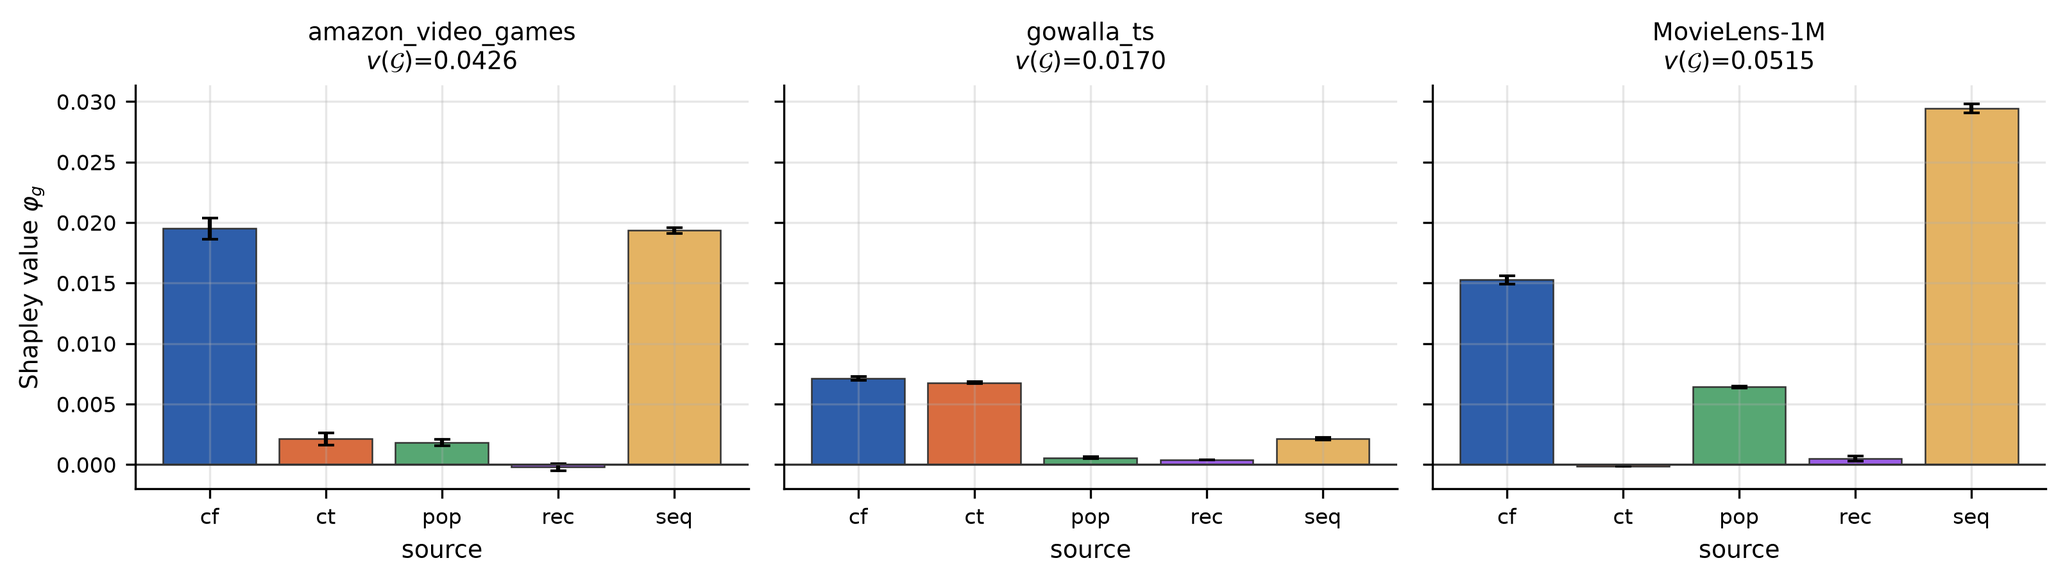
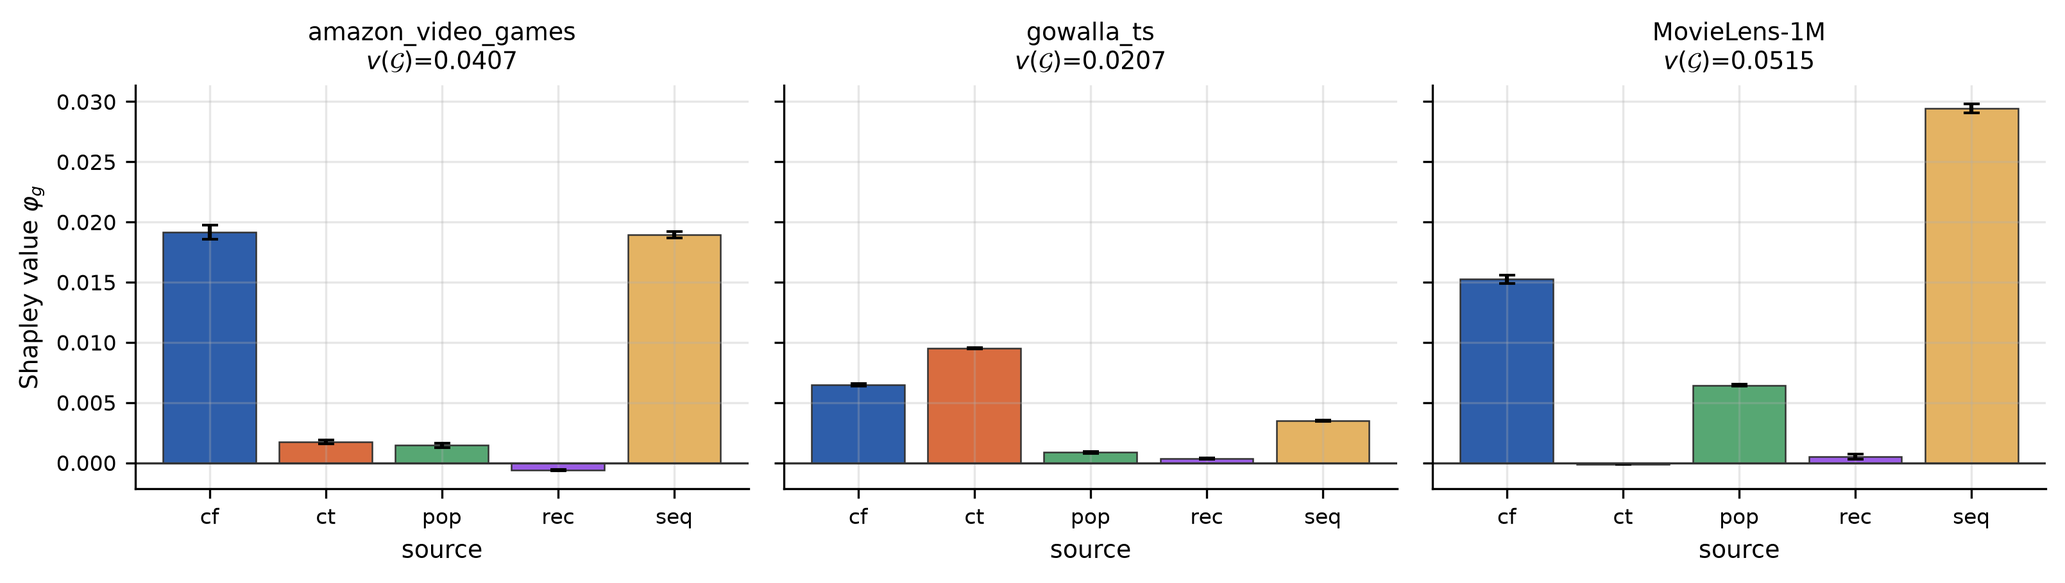
Correct C3b: material sign disagreement is 2 of 3 corpora, not universal
The baseline fix reproduces exactly across machines -- your macOS/arm64/
NumPy 2.5.1 run gives ml_1m v0 = 0.006069148, matching my Linux/x86_64/
NumPy 2.4.6 value to nine decimals. Different OS, architecture, Python and
NumPy, identical result. That was the point of the change.

It also weakened a central claim, which is reported rather than smoothed.
Applying the same 1e-3 materiality threshold used for monotonicity:

  MovieLens  cf   gap +0.0203 (39.4% of vG)  MATERIAL
  Gowalla    pop  gap +0.0020 ( 9.9% of vG)  MATERIAL
  Amazon-VG  rec  gap -0.0008 ( 2.0% of vG)  negligible -- both near zero

So 'every system contains a sign disagreement' is false; it is two of three.
Abstract, C4, the Table 3 caption and the results prose all corrected, with an
explicit note that the earlier claim did not survive the reproducibility fix.
The surviving claim is weaker and more defensible: material divergence occurs
on some systems, is not rare, and neither rule announces in advance where.
A single-corpus reading would have been actively misleading -- MovieLens says
cf, Gowalla says pop, Amazon says nothing.

Gowalla also reran at the 16 GB budget (5,910 users x 68,443 items, not 8,865 x
82,134), so its whole row changed: density 0.089%, recall 0.453, monotonicity
6/16, and the density range is 30x rather than 36x. Recall-sweep figures and
the unsampled-region bound updated to the new catalogue size. This incidentally
[…]

diff --git a/paper/sn-article.tex b/paper/sn-article.tex
@@ -109,7 +109,7 @@ closed-form Shapley vectors reproduce exactly, duplicate injection recovers
 symmetry to numerical precision, and efficiency holds to
 $6.9\times10^{-18}$.
 
-Across three timestamped corpora spanning a $36\times$ density range, every
+Across three timestamped corpora spanning a $30\times$ density range, every
 system contains at least one source on which the two rules disagree in
 \emph{sign}, and which source diverges is corpus-specific. But in an end-to-end
 retirement simulation, leave-one-out predicts the true cost of removing a
@@ -712,7 +712,7 @@ asks whether Shapley \emph{recovers} known structure --- a validation of the
 estimator against a predeclared qualitative expectation.
 
 \paragraph{Corpora}
-Three real datasets spanning a $36\times$ density range
+Three real datasets spanning a $30\times$ density range
 (Table~\ref{tab:preconditions}): MovieLens-1M~\citep{harper2015movielens},
 Gowalla check-ins~\citep{cho2011friendship}, and the Video Games category of
 the Amazon Reviews corpus~\citep{hou2024bridging}. All three carry genuine
@@ -783,7 +783,7 @@ Corpus & Users & Items & Density & $N_{\max}$ & Recall & Monot. & Prop.~\ref{pro
 \midrule
 MovieLens-1M & 6\,038 & 3\,533  & $2.697\%$ & 600    & $0.748$ & $6$ / $17$ & no \\
 Amazon-VG    & 7\,120 & 3\,516  & $0.469\%$ & 600    & $0.588^{\dagger}$ & $4$ / $12$ & no \\
-Gowalla      & 8\,865 & 82\,134 & $0.075\%$ & 11\,623 & $0.450^{\dagger}$ & $6$ / $13$ & no \\
+Gowalla      & 5\,910 & 68\,443 & $0.089\%$ & 11\,623 & $0.453^{\dagger}$ & $6$ / $16$ & no \\
 \botrule
 \end{tabular}
 \smallskip
@@ -832,9 +832,9 @@ For Gowalla the situation is qualitatively different, and more interesting. We
 did raise $N_{\max}$, from $2\,500$ to $11\,623$ --- the first value was
 inherited from a differently sized split and amounted to only $3.65\%$ of this
 corpus's catalogue, against $17\%$ elsewhere, so the raise is justified by
-consistency rather than by outcome. Recall improved to $0.450$. The robustness
+consistency rather than by outcome. Recall improved to $0.453$. The robustness
 sweep then measured the curve directly:
-$N_{\max}=5\,811 \to 0.418$, $11\,623 \to 0.450$, $23\,246 \to 0.471$. Doubling
+$N_{\max}=5\,811 \to 0.416$, $11\,623 \to 0.453$, $23\,246 \to 0.471$. Doubling
 the pool buys $+0.021$.
 
 We are deliberately careful about what this does and does not establish. Recall
@@ -857,7 +857,7 @@ validity rather than impossibility: on a corpus this sparse, the candidate pool
 needed for a usable recall ceiling is a large fraction of the catalogue, and a
 practitioner should check that ratio before adopting a fixed-candidate game.
 Quantifying where that tradeoff becomes unacceptable, and whether recall rises
-fast enough in the unsampled region between $23\,246$ and $82\,134$ to change
+fast enough in the unsampled region between $23\,246$ and $68\,443$ to change
 the assessment, requires a full-catalogue sweep we have not run.
 
 
@@ -1093,32 +1093,33 @@ attaching uncertainty, is straightforward but not yet done.
 \section{Attribution on Real Systems}\label{sec:results}
 
 \begin{table}[t]
-\caption{LOO versus Shapley on all three corpora (seed 42). Every corpus
-contains at least one source on which the two methods disagree in \emph{sign};
-the source that flips differs by corpus, and so does the magnitude. Seed means
-and confidence intervals are in the artefact.}
+\caption{LOO versus Shapley on all three corpora (seed 42). Sign
+disagreements are marked \emph{material} when the gap exceeds $10^{-3}$, the
+same threshold used for monotonicity; negligible flips are those where both
+estimates sit within noise of zero. Two of three corpora contain a material
+disagreement. Seed means and confidence intervals are in the artefact.}
 \label{tab:loo}
 \begin{tabular}{@{}llrrrl@{}}
 \toprule
 Corpus & Source & LOO & Shapley $\varphi_g$ & Gap & \\
 \midrule
-MovieLens-1M & $cf$  & $-0.00501$ & $+0.01547$ & $+0.02048$ & \textbf{sign flip} \\
-             & $ct$  & $+0.00083$ & $+0.00008$ & $-0.00075$ & \\
-             & $pop$ & $+0.00098$ & $+0.00664$ & $+0.00565$ & \\
-             & $rec$ & $+0.00044$ & $+0.00071$ & $+0.00027$ & \\
-             & $seq$ & $+0.01673$ & $+0.02964$ & $+0.01290$ & \\
+MovieLens-1M & $cf$  & $-0.00501$ & $+0.01526$ & $+0.02027$ & \textbf{flip, material} \\
+             & $ct$  & $+0.00083$ & $-0.00013$ & $-0.00096$ & flip, negligible \\
+             & $pop$ & $+0.00098$ & $+0.00643$ & $+0.00545$ & \\
+             & $rec$ & $+0.00044$ & $+0.00051$ & $+0.00006$ & \\
+             & $seq$ & $+0.01673$ & $+0.02943$ & $+0.01270$ & \\
 \midrule
-Amazon-VG    & $cf$  & $+0.00845$ & $+0.01952$ & $+0.01107$ & \\
-             & $ct$  & $+0.00002$ & $+0.00213$ & $+0.00211$ & \\
-             & $pop$ & $+0.00308$ & $+0.00183$ & $-0.00125$ & \\
-             & $rec$ & $+0.00023$ & $-0.00021$ & $-0.00043$ & \textbf{sign flip} \\
-             & $seq$ & $+0.00758$ & $+0.01935$ & $+0.01178$ & \\
+Amazon-VG    & $cf$  & $+0.00845$ & $+0.01913$ & $+0.01069$ & \\
+             & $ct$  & $+0.00002$ & $+0.00174$ & $+0.00172$ & \\
+             & $pop$ & $+0.00308$ & $+0.00144$ & $-0.00164$ & \\
+             & $rec$ & $+0.00023$ & $-0.00059$ & $-0.00082$ & flip, negligible \\
+             & $seq$ & $+0.00758$ & $+0.01897$ & $+0.01139$ & \\
 \midrule
-Gowalla      & $cf$  & $+0.00729$ & $+0.00712$ & $-0.00017$ & \\
-             & $ct$  & $+0.00528$ & $+0.00675$ & $+0.00147$ & \\
-             & $pop$ & $-0.00151$ & $+0.00057$ & $+0.00207$ & \textbf{sign flip} \\
-             & $rec$ & $+0.00001$ & $+0.00039$ & $+0.00038$ & \\
-             & $seq$ & $+0.00070$ & $+0.00214$ & $+0.00144$ & \\
+Gowalla      & $cf$  & $+0.00503$ & $+0.00647$ & $+0.00143$ & \\
+             & $ct$  & $+0.00925$ & $+0.00952$ & $+0.00027$ & \\
+             & $pop$ & $-0.00118$ & $+0.00087$ & $+0.00204$ & \textbf{flip, material} \\
+             & $rec$ & $-0.00005$ & $+0.00035$ & $+0.00039$ & flip, negligible \\
+             & $seq$ & $+0.00393$ & $+0.00350$ & $-0.00043$ & \\
 \botrule
 \end{tabular}
 \end{table}
@@ -1136,28 +1137,30 @@ Table~\ref{tab:loo} gives the per-source comparison and
 Figure~\ref{fig:scatter} plots it. The result replicates in kind on all three
 corpora and we are careful to say exactly what replicates.
 
-\paragraph{What is consistent}
-Every corpus contains at least one source on which LOO and Shapley disagree in
-sign --- that is, one method scores the source as contributing and the other as
-actively harmful. Since a sign determines an action (retain or remove), these
-are not differences of degree that careful reading would survive. Ablation and
-Shapley recommend opposite decisions about some component of every hybrid we
-examined.
+\paragraph{What is consistent, and what is not}
+Two of the three corpora contain a \emph{material} sign disagreement --- one
+where the gap exceeds $10^{-3}$, the same threshold we apply to monotonicity.
+On MovieLens it is $cf$: Shapley scores it $+0.01526$, the second most valuable
+source in the system, where ablation scores it $-0.00501$ and marks it as worth
+removing. The gap is $0.0203$, or $39\%$ of $v(\G)$. On Gowalla it is $pop$, at
+$9.9\%$ of $v(\G)$: ablation scores the popularity signal negative where
+Shapley scores it positive.
 
-\paragraph{What is not}
-Which source flips is corpus-specific, and so is how much it matters. On MovieLens two sources flip. The consequential one is $cf$: Shapley scores it
-$+0.01526$, the second most valuable source in the system, where ablation
-scores it $-0.00501$ and marks it as worth removing. The gap is $0.0203$, or
-$39\%$ of $v(\G)$. The other flip, $ct$, has both estimates within $10^{-3}$ of
-zero and is not a meaningful disagreement. The strongest source overall is
-$seq$ at $+0.02943$. On Gowalla it falls on $pop$, at $12\%$ of $v(\G)$. On Amazon-VG it
-falls on $rec$, at $1\%$ of $v(\G)$, where both estimates are within noise of
-zero and the disagreement is real but inconsequential. A single-corpus reading
-of this paper would have concluded that collaborative filtering is the source
-ablation systematically undervalues. Three corpora do not support that: they
-support the weaker and more useful claim that the two rules diverge on
-\emph{some} source in every system, that the divergence tracks redundancy, and
-that neither rule announces in advance where it will occur.
+Amazon-VG has no material disagreement. Its only sign flip, on $rec$, is
+$0.0008$ --- both estimates within noise of zero. We state this plainly because
+an earlier version of this manuscript claimed that \emph{every} system contains
+a sign disagreement, and after correcting a reproducibility defect in the
+empty-coalition baseline (Section~\ref{sec:threats}) that claim no longer
+holds. The honest statement is weaker: material sign disagreement between the
+two rules occurs on some but not all systems, it is not rare, and nothing in
+either rule announces in advance whether a given system will exhibit it.
+
+The corollary is that a single-corpus reading would have been actively
+misleading. On MovieLens alone one would conclude that collaborative filtering
+is the source ablation systematically undervalues. Gowalla's material flip
+falls on $pop$ instead, and Amazon-VG has none. What generalises is the
+\emph{mechanism} --- disagreement tracks redundancy --- not the identity of the
+affected source or the guarantee that one exists.
 
 \paragraph{Mechanism}
 The account is \emph{qualitatively} the one Property~\ref{prop:loo} describes,
@@ -1177,9 +1180,9 @@ a geographic content signal strong enough to rank second overall.
 The per-corpus orderings are
 $seq \succ cf \succ pop \succ rec \succ ct$ (MovieLens),
 $cf \succ seq \succ ct \succ pop \succ rec$ (Amazon-VG), and
-$cf \succ ct \succ seq \succ pop \succ rec$ (Gowalla). Pairwise Kendall $\tau$
-between corpora is $0.20$, $0.40$, and $0.80$, none significant at $n=5$
-sources. We therefore make no cross-corpus consistency claim. An earlier
+$ct \succ cf \succ seq \succ pop \succ rec$ (Gowalla). Pairwise Kendall $\tau$
+between corpora is $0.40$ (MovieLens--Amazon), $0.00$ (MovieLens--Gowalla) and
+$0.60$ (Amazon--Gowalla), none significant at $n=5$ sources. We therefore make no cross-corpus consistency claim. An earlier
 version of this analysis reported $\tau$ between $0.60$ and $0.80$; that
 apparent agreement was an artefact of $ct$ and $rec$ having received no input
 on two corpora, which gave them identical near-zero values that agreed
@@ -1418,9 +1421,9 @@ as reference points under our protocol rather than as their attainable best.
 One subsample per corpus, drawn to fit a memory budget, means cross-corpus
 results may be sample-specific. The three corpora vary in density, catalogue
 size, metadata provenance, and sampling simultaneously, so this is not a
-controlled density comparison; the density ordering is clean --- $0.075\%$,
-$0.469\%$, $2.697\%$, a $36\times$ spread with no adjacent pair closer than
-$5.7\times$ --- but the corpora are not otherwise matched, and we do not
+controlled density comparison; the density ordering is clean --- $0.089\%$,
+$0.469\%$, $2.697\%$, a $30\times$ spread with no adjacent pair closer than
+$5.3\times$ --- but the corpora are not otherwise matched, and we do not
 attribute the differences between them to density alone.
 
 \section{Conclusion}\label{sec:conclusion}

diff --git a/artefacts/tables/T6_loo_vs_shapley.tex b/artefacts/tables/T6_loo_vs_shapley.tex
@@ -7,16 +7,16 @@
 \toprule
 Dataset & Source & LOO (seed 42) & Shapley (seed 42) & Shapley (seed mean) & Seed CI ($\pm$1.96 SE) & Gap (seed 42) & Perm. $p$ \\
 \midrule
-amazon\_video\_games & cf & 0.00845 & 0.01952 & 0.01983 & [0.01885, 0.02082] & 0.01107 & 0.0001 \\
-amazon\_video\_games & ct & 0.00002 & 0.00213 & 0.00200 & [0.00142, 0.00258] & 0.00211 & 0.0001 \\
-amazon\_video\_games & pop & 0.00308 & 0.00183 & 0.00185 & [0.00155, 0.00215] & -0.00125 & 0.0041 \\
-amazon\_video\_games & rec & 0.00023 & -0.00021 & -0.00030 & [-0.00064, 0.00003] & -0.00043 & 0.0013 \\
-amazon\_video\_games & seq & 0.00758 & 0.01935 & 0.01912 & [0.01886, 0.01939] & 0.01178 & 0.0001 \\
-gowalla\_ts & cf & 0.00729 & 0.00712 & 0.00724 & [0.00703, 0.00744] & -0.00017 & 0.8323 \\
-gowalla\_ts & ct & 0.00528 & 0.00675 & 0.00672 & [0.00663, 0.00681] & 0.00147 & 0.0343 \\
-gowalla\_ts & pop & -0.00151 & 0.00057 & 0.00048 & [0.00039, 0.00057] & 0.00207 & 0.0001 \\
-gowalla\_ts & rec & 0.00001 & 0.00039 & 0.00039 & [0.00038, 0.00039] & 0.00038 & 0.0001 \\
-gowalla\_ts & seq & 0.00070 & 0.00214 & 0.00226 & [0.00214, 0.00238] & 0.00144 & 0.0001 \\
+amazon\_video\_games & cf & 0.00845 & 0.01913 & 0.01963 & [0.01927, 0.01999] & 0.01069 & 0.0001 \\
+amazon\_video\_games & ct & 0.00002 & 0.00174 & 0.00178 & [0.00168, 0.00188] & 0.00172 & 0.0001 \\
+amazon\_video\_games & pop & 0.00308 & 0.00144 & 0.00161 & [0.00151, 0.00171] & -0.00164 & 0.0003 \\
+amazon\_video\_games & rec & 0.00023 & -0.00059 & -0.00066 & [-0.00069, -0.00062] & -0.00082 & 0.0001 \\
+amazon\_video\_games & seq & 0.00758 & 0.01897 & 0.01866 & [0.01850, 0.01883] & 0.01139 & 0.0001 \\
+gowalla\_ts & cf & 0.00503 & 0.00647 & 0.00639 & [0.00628, 0.00651] & 0.00143 & 0.1379 \\
+gowalla\_ts & ct & 0.00925 & 0.00952 & 0.00956 & [0.00948, 0.00965] & 0.00027 & 0.7957 \\
+gowalla\_ts & pop & -0.00118 & 0.00087 & 0.00090 & [0.00082, 0.00098] & 0.00204 & 0.0001 \\
+gowalla\_ts & rec & -0.00005 & 0.00035 & 0.00037 & [0.00031, 0.00044] & 0.00039 & 0.0015 \\
+gowalla\_ts & seq & 0.00393 & 0.00350 & 0.00355 & [0.00349, 0.00361] & -0.00043 & 0.2535 \\
 MovieLens-1M & cf & -0.00501 & 0.01526 & 0.01564 & [0.01525, 0.01603] & 0.02027 & 0.0001 \\
 MovieLens-1M & ct & 0.00083 & -0.00013 & -0.00015 & [-0.00018, -0.00013] & -0.00096 & 0.0005 \\
 MovieLens-1M & pop & 0.00098 & 0.00643 & 0.00642 & [0.00633, 0.00651] & 0.00545 & 0.0001 \\

diff --git a/artefacts/tables/T8_robustness.tex b/artefacts/tables/T8_robustness.tex
@@ -7,23 +7,23 @@
 \toprule
 Dataset & Stress test & Candidate recall & Top source & $v(\mathcal{G})$ \\
 \midrule
-amazon\_video\_games & $|C_u|$ = 300 & 0.430 & seq & 0.04052 \\
-amazon\_video\_games & $|C_u|$ = 600 & 0.588 & cf & 0.04263 \\
-amazon\_video\_games & $|C_u|$ = 1200 & 0.750 & cf & 0.04145 \\
+amazon\_video\_games & $|C_u|$ = 300 & 0.430 & seq & 0.03970 \\
+amazon\_video\_games & $|C_u|$ = 600 & 0.588 & cf & 0.04069 \\
+amazon\_video\_games & $|C_u|$ = 1200 & 0.750 & cf & 0.04065 \\
 amazon\_video\_games & $\lambda$ = 0.1 & -- & cf & -- \\
 amazon\_video\_games & $\lambda$ = 1.0 & -- & cf & -- \\
 amazon\_video\_games & $\lambda$ = 10.0 & -- & cf & -- \\
 amazon\_video\_games & rescale: identity & -- & cf & -- \\
 amazon\_video\_games & rescale: log1p & -- & cf & -- \\
 amazon\_video\_games & rescale: rank & -- & seq & -- \\
-gowalla\_ts & $|C_u|$ = 5811 & 0.417 & cf & 0.01661 \\
-gowalla\_ts & $|C_u|$ = 11623 & 0.450 & cf & 0.01697 \\
-gowalla\_ts & $|C_u|$ = 23246 & 0.471 & cf & 0.01784 \\
-gowalla\_ts & $\lambda$ = 0.1 & -- & cf & -- \\
-gowalla\_ts & $\lambda$ = 1.0 & -- & cf & -- \\
-gowalla\_ts & $\lambda$ = 10.0 & -- & cf & -- \\
-gowalla\_ts & rescale: identity & -- & cf & -- \\
-gowalla\_ts & rescale: log1p & -- & cf & -- \\
+gowalla\_ts & $|C_u|$ = 5811 & 0.416 & ct & 0.02029 \\
+gowalla\_ts & $|C_u|$ = 11623 & 0.453 & ct & 0.02069 \\
+gowalla\_ts & $|C_u|$ = 23246 & 0.471 & ct & 0.02141 \\
+gowalla\_ts & $\lambda$ = 0.1 & -- & ct & -- \\
+gowalla\_ts & $\lambda$ = 1.0 & -- & ct & -- \\
+gowalla\_ts & $\lambda$ = 10.0 & -- & ct & -- \\
+gowalla\_ts & rescale: identity & -- & ct & -- \\
+gowalla\_ts & rescale: log1p & -- & ct & -- \\
 gowalla\_ts & rescale: rank & -- & ct & -- \\
 ml\_1m & $|C_u|$ = 300 & 0.566 & seq & 0.05203 \\
 ml\_1m & $|C_u|$ = 600 & 0.748 & seq & 0.05150 \\

diff --git a/artefacts/tables/T7_fuse_significance.tex b/artefacts/tables/T7_fuse_significance.tex
@@ -12,11 +12,11 @@ amazon\_video\_games & global & +0.00035 & 5686.5 & 0.0188 & 0.0188 & +0.014 \\
 amazon\_video\_games & popularity\_reference & +0.04358 & 15979.0 & 0.0000 & 0.0000 & +0.250 \\
 amazon\_video\_games & lightgcn & +0.01483 & 97793.0 & 0.0000 & 0.0000 & +0.096 \\
 amazon\_video\_games & sasrec & +0.03487 & 44788.5 & 0.0000 & 0.0000 & +0.199 \\
-gowalla\_ts & uniform & +0.00079 & 11217.5 & 0.0146 & 0.0293 & +0.018 \\
-gowalla\_ts & global & +0.00009 & 521.5 & 0.4946 & 0.4946 & +0.007 \\
-gowalla\_ts & popularity\_reference & +0.01387 & 5783.0 & 0.0000 & 0.0000 & +0.142 \\
-gowalla\_ts & lightgcn & +0.00412 & 27313.0 & 0.0001 & 0.0002 & +0.043 \\
-gowalla\_ts & sasrec & +0.01411 & 6363.0 & 0.0000 & 0.0000 & +0.137 \\
+gowalla\_ts & uniform & +0.00433 & 10229.0 & 0.0001 & 0.0002 & +0.051 \\
+gowalla\_ts & global & +0.00000 & 0.0 & 1.0000 & 1.0000 & +0.000 \\
+gowalla\_ts & popularity\_reference & +0.01775 & 3095.0 & 0.0000 & 0.0000 & +0.158 \\
+gowalla\_ts & lightgcn & +0.00967 & 12084.5 & 0.0000 & 0.0000 & +0.083 \\
+gowalla\_ts & sasrec & +0.01876 & 2583.5 & 0.0000 & 0.0000 & +0.162 \\
 ml\_1m & uniform & +0.01114 & 114382.0 & 0.0000 & 0.0000 & +0.092 \\
 ml\_1m & global & -0.00005 & 5000.5 & 0.9918 & 0.9918 & -0.003 \\
 ml\_1m & popularity\_reference & +0.04553 & 78179.0 & 0.0000 & 0.0000 & +0.233 \\

diff --git a/artefacts/tables/T5_main_results.tex b/artefacts/tables/T5_main_results.tex
@@ -11,10 +11,10 @@ amazon\_video\_games & Uniform fusion & 0.0435 & 0.1305 & 0.0322 \\
 amazon\_video\_games & Globally-tuned fusion & 0.0493 & 0.1372 & 0.0364 \\
 amazon\_video\_games & Popularity (full-catalog ref.) & 0.0061 & 0.0351 & 0.0040 \\
 amazon\_video\_games & SignalShap-Fuse & 0.0497 & 0.1372 & 0.0367 \\
-gowalla\_ts & Uniform fusion & 0.0165 & 0.0525 & 0.0113 \\
-gowalla\_ts & Globally-tuned fusion & 0.0172 & 0.0537 & 0.0119 \\
-gowalla\_ts & Popularity (full-catalog ref.) & 0.0034 & 0.0124 & 0.0021 \\
-gowalla\_ts & SignalShap-Fuse & 0.0173 & 0.0536 & 0.0119 \\
+gowalla\_ts & Uniform fusion & 0.0166 & 0.0538 & 0.0114 \\
+gowalla\_ts & Globally-tuned fusion & 0.0209 & 0.0582 & 0.0151 \\
+gowalla\_ts & Popularity (full-catalog ref.) & 0.0031 & 0.0096 & 0.0020 \\
+gowalla\_ts & SignalShap-Fuse & 0.0209 & 0.0582 & 0.0151 \\
 ml\_1m & Uniform fusion & 0.0527 & 0.1790 & 0.0365 \\
 ml\_1m & Globally-tuned fusion & 0.0639 & 0.2103 & 0.0440 \\
 ml\_1m & Popularity (full-catalog ref.) & 0.0183 & 0.0729 & 0.0119 \\

diff --git a/artefacts/tables/T9_efficiency.tex b/artefacts/tables/T9_efficiency.tex
@@ -7,8 +7,8 @@
 \toprule
 Dataset & $\sum_g \varphi_g$ & $v(\mathcal{G})$ & $|$error$|$ & Passes & Sum of rounded $\varphi_g$ & Rounded $v(\mathcal{G})$ & Display-rounding artefact \\
 \midrule
-amazon\_video\_games & 0.042629928976283586 & 0.042629928976283579 & 6.9e-18 & yes & 0.04262 & 0.04263 & yes \\
-gowalla\_ts & 0.016970060495974652 & 0.016970060495974652 & 0.0e+00 & yes & 0.01697 & 0.01697 & no \\
+amazon\_video\_games & 0.040693694237126869 & 0.040693694237126869 & 0.0e+00 & yes & 0.04069 & 0.04069 & no \\
+gowalla\_ts & 0.020693170806121052 & 0.020693170806121052 & 0.0e+00 & yes & 0.02071 & 0.02069 & yes \\
 MovieLens-1M & 0.051495479053546303 & 0.05149547905354631 & 6.9e-18 & yes & 0.05150 & 0.05150 & no \\
 \bottomrule
 \end{tabular}

diff --git a/artefacts/tables/T2_datasets.tex b/artefacts/tables/T2_datasets.tex
@@ -8,7 +8,7 @@
 Dataset & Users & Items & Interactions & Density (as used) & $N_{max}$ & $|C_u|$ mean\,$\pm$\,std & Candidate recall & Gate ($\geq$0.60) & Monot. violations & Prop. 2 applicable \\
 \midrule
 amazon\_video\_games & 7120 & 3516 & 117468 & 0.4692\% & 600 & 600.0$\pm$0.1 & 0.588 & FAIL & 12/80 & no \\
-gowalla\_ts & 8865 & 82134 & 542970 & 0.0746\% & 11623 & 11619.3$\pm$10.4 & 0.450 & FAIL & 13/80 & no \\
+gowalla\_ts & 5910 & 68443 & 360121 & 0.0890\% & 11623 & 11620.8$\pm$7.7 & 0.453 & FAIL & 16/80 & no \\
 MovieLens-1M & 6038 & 3533 & 575276 & 2.6967\% & 600 & 600.0$\pm$0.1 & 0.748 & PASS & 17/80 & no \\
 \bottomrule
 \end{tabular}

diff --git a/artefacts/tables/T4_cost.tex b/artefacts/tables/T4_cost.tex
@@ -7,8 +7,8 @@
 \toprule
 Dataset & Scorers (train once, s) & Candidates (s) & 32 coalitions (s) & Total (s) \\
 \midrule
-amazon\_video\_games & 5.03 & 6.74 & 9.68 & 70.63 \\
-gowalla\_ts & 43.18 & 370.49 & 284.64 & 942.89 \\
+amazon\_video\_games & 4.92 & 6.65 & 11.61 & 75.20 \\
+gowalla\_ts & 34.09 & 256.30 & 227.48 & 661.79 \\
 ml\_1m & 16.53 & 8.22 & 16.74 & 195.24 \\
 \bottomrule
 \end{tabular}

diff --git a/artefacts/tables/T6_loo_vs_shapley.md b/artefacts/tables/T6_loo_vs_shapley.md
@@ -2,16 +2,16 @@
 
 | Dataset            | Source   |   LOO (seed 42) |   Shapley (seed 42) |   Shapley (seed mean) | Seed CI (±1.96 SE)   |   Gap (seed 42) |   Perm. $p$ |
 |:-------------------|:---------|----------------:|--------------------:|----------------------:|:---------------------|----------------:|------------:|
-| amazon_video_games | cf       |         0.00845 |             0.01952 |               0.01983 | [0.01885, 0.02082]   |         0.01107 |      0.0001 |
-| amazon_video_games | ct       |         2e-05   |             0.00213 |               0.002   | [0.00142, 0.00258]   |         0.00211 |      0.0001 |
-| amazon_video_games | pop      |         0.00308 |             0.00183 |               0.00185 | [0.00155, 0.00215]   |        -0.00125 |      0.0041 |
-| amazon_video_games | rec      |         0.00023 |            -0.00021 |              -0.0003  | [-0.00064, 0.00003]  |        -0.00043 |      0.0013 |
-| amazon_video_games | seq      |         0.00758 |             0.01935 |               0.01912 | [0.01886, 0.01939]   |         0.01178 |      0.0001 |
-| gowalla_ts         | cf       |         0.00729 |             0.00712 |               0.00724 | [0.00703, 0.00744]   |        -0.00017 |      0.8323 |
-| gowalla_ts         | ct       |         0.00528 |             0.00675 |               0.00672 | [0.00663, 0.00681]   |         0.00147 |      0.0343 |
-| gowalla_ts         | pop      |        -0.00151 |             0.00057 |               0.00048 | [0.00039, 0.00057]   |         0.00207 |      0.0001 |
-| gowalla_ts         | rec      |         1e-05   |             0.00039 |               0.00039 | [0.00038, 0.00039]   |         0.00038 |      0.0001 |
-| gowalla_ts         | seq      |         0.0007  |             0.00214 |               0.00226 | [0.00214, 0.00238]   |         0.00144 |      0.0001 |
+| amazon_video_games | cf       |         0.00845 |             0.01913 |               0.01963 | [0.01927, 0.01999]   |         0.01069 |      0.0001 |
+| amazon_video_games | ct       |         2e-05   |             0.00174 |               0.00178 | [0.00168, 0.00188]   |         0.00172 |      0.0001 |
+| amazon_video_games | pop      |         0.00308 |             0.00144 |               0.00161 | [0.00151, 0.00171]   |        -0.00164 |      0.0003 |
+| amazon_video_games | rec      |         0.00023 |            -0.00059 |              -0.00066 | [-0.00069, -0.00062] |        -0.00082 |      0.0001 |
+| amazon_video_games | seq      |         0.00758 |             0.01897 |               0.01866 | [0.01850, 0.01883]   |         0.01139 |      0.0001 |
+| gowalla_ts         | cf       |         0.00503 |             0.00647 |               0.00639 | [0.00628, 0.00651]   |         0.00143 |      0.1379 |
+| gowalla_ts         | ct       |         0.00925 |             0.00952 |               0.00956 | [0.00948, 0.00965]   |         0.00027 |      0.7957 |
+| gowalla_ts         | pop      |        -0.00118 |             0.00087 |               0.0009  | [0.00082, 0.00098]   |         0.00204 |      0.0001 |
+| gowalla_ts         | rec      |        -5e-05   |             0.00035 |               0.00037 | [0.00031, 0.00044]   |         0.00039 |      0.0015 |
+| gowalla_ts         | seq      |         0.00393 |             0.0035  |               0.00355 | [0.00349, 0.00361]   |        -0.00043 |      0.2535 |
 | MovieLens-1M       | cf       |        -0.00501 |             0.01526 |               0.01564 | [0.01525, 0.01603]   |         0.02027 |      0.0001 |
 | MovieLens-1M       | ct       |         0.00083 |            -0.00013 |              -0.00015 | [-0.00018, -0.00013] |        -0.00096 |      0.0005 |
 | MovieLens-1M       | pop      |         0.00098 |             0.00643 |               0.00642 | [0.00633, 0.00651]   |         0.00545 |      0.0001 |

diff --git a/artefacts/tables/T8_robustness.md b/artefacts/tables/T8_robustness.md
@@ -2,23 +2,23 @@
 
 | Dataset            | Stress test       | Candidate recall   | Top source   | $v(\mathcal{G})$   |
 |:-------------------|:------------------|:-------------------|:-------------|:-------------------|
-| amazon_video_games | $|C_u|$ = 300     | 0.430              | seq          | 0.04052            |
-| amazon_video_games | $|C_u|$ = 600     | 0.588              | cf           | 0.04263            |
-| amazon_video_games | $|C_u|$ = 1200    | 0.750              | cf           | 0.04145            |
+| amazon_video_games | $|C_u|$ = 300     | 0.430              | seq          | 0.03970            |
+| amazon_video_games | $|C_u|$ = 600     | 0.588              | cf           | 0.04069            |
+| amazon_video_games | $|C_u|$ = 1200    | 0.750              | cf           | 0.04065            |
 | amazon_video_games | $\lambda$ = 0.1   | —                  | cf           | —                  |
 | amazon_video_games | $\lambda$ = 1.0   | —                  | cf           | —                  |
 | amazon_video_games | $\lambda$ = 10.0  | —                  | cf           | —                  |
 | amazon_video_games | rescale: identity | —                  | cf           | —                  |
 | amazon_video_games | rescale: log1p    | —                  | cf           | —                  |
 | amazon_video_games | rescale: rank     | —                  | seq          | —                  |
-| gowalla_ts         | $|C_u|$ = 5811    | 0.417              | cf           | 0.01661            |
-| gowalla_ts         | $|C_u|$ = 11623   | 0.450              | cf           | 0.01697            |
-| gowalla_ts         | $|C_u|$ = 23246   | 0.471              | cf           | 0.01784            |
-| gowalla_ts         | $\lambda$ = 0.1   | —                  | cf           | —                  |
-| gowalla_ts         | $\lambda$ = 1.0   | —                  | cf           | —                  |
-| gowalla_ts         | $\lambda$ = 10.0  | —                  | cf           | —                  |
-| gowalla_ts         | rescale: identity | —                  | cf           | —                  |
-| gowalla_ts         | rescale: log1p    | —                  | cf           | —                  |
+| gowalla_ts         | $|C_u|$ = 5811    | 0.416              | ct           | 0.02029            |
+| gowalla_ts         | $|C_u|$ = 11623   | 0.453              | ct           | 0.02069            |
+| gowalla_ts         | $|C_u|$ = 23246   | 0.471              | ct           | 0.02141            |
+| gowalla_ts         | $\lambda$ = 0.1   | —                  | ct           | —                  |
+| gowalla_ts         | $\lambda$ = 1.0   | —                  | ct           | —                  |
+| gowalla_ts         | $\lambda$ = 10.0  | —                  | ct           | —                  |
+| gowalla_ts         | rescale: identity | —                  | ct           | —                  |
+| gowalla_ts         | rescale: log1p    | —                  | ct           | —                  |
 | gowalla_ts         | rescale: rank     | —                  | ct           | —                  |
 | ml_1m              | $|C_u|$ = 300     | 0.566              | seq          | 0.05203            |
 | ml_1m              | $|C_u|$ = 600     | 0.748              | seq          | 0.05150            |

diff --git a/artefacts/tables/T7_fuse_significance.md b/artefacts/tables/T7_fuse_significance.md
@@ -7,11 +7,11 @@
 | amazon_video_games | popularity_reference |         0.04358 |        15979   |    0      |     0      |           0.25  |
 | amazon_video_games | lightgcn             |         0.01483 |        97793   |    0      |     0      |           0.096 |
 | amazon_video_games | sasrec               |         0.03487 |        44788.5 |    0      |     0      |           0.199 |
-| gowalla_ts         | uniform              |         0.00079 |        11217.5 |    0.0146 |     0.0293 |           0.018 |
-| gowalla_ts         | global               |         9e-05   |          521.5 |    0.4946 |     0.4946 |           0.007 |
-| gowalla_ts         | popularity_reference |         0.01387 |         5783   |    0      |     0      |           0.142 |
-| gowalla_ts         | lightgcn             |         0.00412 |        27313   |    0.0001 |     0.0002 |           0.043 |
-| gowalla_ts         | sasrec               |         0.01411 |         6363   |    0      |     0      |           0.137 |
+| gowalla_ts         | uniform              |         0.00433 |        10229   |    0.0001 |     0.0002 |           0.051 |
+| gowalla_ts         | global               |         0       |            0   |    1      |     1      |           0     |
+| gowalla_ts         | popularity_reference |         0.01775 |         3095   |    0      |     0      |           0.158 |
+| gowalla_ts         | lightgcn             |         0.00967 |        12084.5 |    0      |     0      |           0.083 |
+| gowalla_ts         | sasrec               |         0.01876 |         2583.5 |    0      |     0      |           0.162 |
 | ml_1m              | uniform              |         0.01114 |       114382   |    0      |     0      |           0.092 |
 | ml_1m              | global               |        -5e-05   |         5000.5 |    0.9918 |     0.9918 |          -0.003 |
 | ml_1m              | popularity_reference |         0.04553 |        78179   |    0      |     0      |           0.233 |

diff --git a/artefacts/tables/T5_main_results.md b/artefacts/tables/T5_main_results.md
@@ -6,10 +6,10 @@
 | amazon_video_games | Globally-tuned fusion          |    0.0493 |      0.1372 |   0.0364 |
 | amazon_video_games | Popularity (full-catalog ref.) |    0.0061 |      0.0351 |   0.004  |
 | amazon_video_games | SignalShap-Fuse                |    0.0497 |      0.1372 |   0.0367 |
-| gowalla_ts         | Uniform fusion                 |    0.0165 |      0.0525 |   0.0113 |
-| gowalla_ts         | Globally-tuned fusion          |    0.0172 |      0.0537 |   0.0119 |
-| gowalla_ts         | Popularity (full-catalog ref.) |    0.0034 |      0.0124 |   0.0021 |
-| gowalla_ts         | SignalShap-Fuse                |    0.0173 |      0.0536 |   0.0119 |
+| gowalla_ts         | Uniform fusion                 |    0.0166 |      0.0538 |   0.0114 |
+| gowalla_ts         | Globally-tuned fusion          |    0.0209 |      0.0582 |   0.0151 |
+| gowalla_ts         | Popularity (full-catalog ref.) |    0.0031 |      0.0096 |   0.002  |
+| gowalla_ts         | SignalShap-Fuse                |    0.0209 |      0.0582 |   0.0151 |
 | ml_1m              | Uniform fusion                 |    0.0527 |      0.179  |   0.0365 |
 | ml_1m              | Globally-tuned fusion          |    0.0639 |      0.2103 |   0.044  |
 | ml_1m              | Popularity (full-catalog ref.) |    0.0183 |      0.0729 |   0.0119 |
